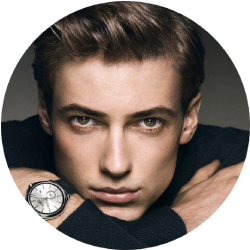
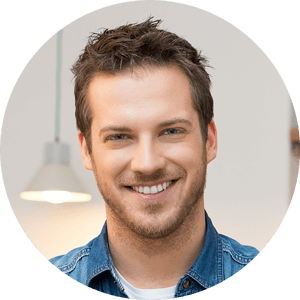
teams_klar!

diff --git a/CODE/team.html b/CODE/team.html
@@ -43,58 +43,58 @@
       <div class="our_team">
         <div class="team_member">
           <div class="member_img">
-            <img src="images/teams/member_4.png" alt="our_team">
+            <img src="images/teams/member_1.png" alt="our_team">
             <div class="social_media">
-              <div class="facebook item"><img id="link-icon" src="images/F.png" alt="" onclick="location.href='https://www.instagram.com/'"></div>
-              <div class="twitter item"><i class="fab fa-twitter"></i></div>
-              <div class="instagram item"><i class="fab fa-instagram"></i></div>
+              <div class="facebook item"><img id="link-icon" src="images/teams/facebook.png" alt="" onclick="location.href='https://www.facebook.com/'"></div>
+              <div class="twitter item"><img id="link-icon" src="images/teams/twitter.png" alt="" onclick="location.href='https://twitter.com/'"></div>
+              <div class="instagram item"><img id="link-icon" src="images/teams/insta.png" alt="" onclick="location.href='https://www.instagram.com/'"></div>
             </div>
           </div>
           <h3>Dawit Weldon</h3>
           <span class="roll">CEO</span>
-          <p>Lorem ipsum dolor sit amet, consectetur adipisicing elit. Ratione perspiciatis, error deleniti quaerat beatae doloribus incidunt excepturi. Fugit deleniti accusantium neque hic quidem voluptatibus cumque.</p>
+          <p>Lorem ipsum dolor sit amet, consectetur adipisicing elit. Ratione perspiciatis, error deleniti quaerat beatae doloribus incidunt excepturi. Fugit deleniti accusantium neque hic quidem voluptatibus cumque. &nbsp</p>
           <a class="more_info" href="AboutMePage.html">Läs mer om Dawit</a>
         </div>
         <div class="team_member">
           <div class="member_img">
-            <img src="images/teams/member_4.png" alt="our_team">
+            <img src="images/teams/member_3.png" alt="our_team">
             <div class="social_media">
-              <div class="facebook item"><i class="fab fa-facebook-f"></i></div>
-              <div class="twitter item"><i class="fab fa-twitter"></i></div>
-              <div class="instagram item"><i class="fab fa-instagram"></i></div>
+              <div class="facebook item"><img id="link-icon" src="images/teams/facebook.png" alt="" onclick="location.href='https://www.facebook.com/'"></div>
+              <div class="twitter item"><img id="link-icon" src="images/teams/twitter.png" alt="" onclick="location.href='https://twitter.com/'"></div>
+              <div class="instagram item"><img id="link-icon" src="images/teams/insta.png" alt="" onclick="location.href='https://www.instagram.com/'"></div>
             </div>
           </div>
           <h3>Ali Sajjad Mohammadi</h3>
           <span class="roll">Accountant</span>
-          <p>Lorem ipsum dolor sit amet, consectetur adipisicing elit. Dolores maiores temporibus, architecto optio asperiores mollitia pariatur error, quaerat voluptatibus minima eos quo nostrum, maxime necessitatibus.</p>
+          <p>Lorem ipsum dolor sit amet, consectetur adipisicing elit. Dolores maiores temporibus, architecto optio asperiores mollitia pariatur error, quaerat voluptatibus minima eos quo nostrum, maxime necessitatibus. &nbsp</p>
           <a class="more_info" href="">Läs mer om Ali</a>
         </div>
         <div class="team_member">
           <div class="member_img">
             <img src="images/teams/member_4.png" alt="our_team">
             <div class="social_media">
-              <div class="facebook item"><i class="fab fa-facebook-f"></i></div>
-              <div class="twitter item"><i class="fab fa-twitter"></i></div>
-              <div class="instagram item"><i class="fab fa-instagram"></i></div>
+              <div class="facebook item"><img id="link-icon" src="images/teams/facebook.png" alt="" onclick="location.href='https://www.facebook.com/'"></div>
+              <div class="twitter item"><img id="link-icon" src="images/teams/twitter.png" alt="" onclick="location.href='https://twitter.com/'"></div>
+              <div class="instagram item"><img id="link-icon" src="images/teams/insta.png" alt="" onclick="location.href='https://www.instagram.com/'"></div>
             </div>
           </div>
           <h3>Firas Raad</h3>
           <span class="roll">Product Manager</span>
-          <p>Lorem ipsum dolor sit amet, consectetur adipisicing elit. Ratione perspiciatis, error deleniti quaerat beatae doloribus incidunt excepturi. Fugit deleniti accusantium neque hic quidem voluptatibus cumque.</p>
+          <p>Lorem ipsum dolor sit amet, consectetur adipisicing elit. Ratione perspiciatis, error deleniti quaerat beatae doloribus incidunt excepturi. Fugit deleniti accusantium neque hic quidem voluptatibus cumque. &nbsp</p>
           <a class="more_info" href="">Läs mer om Firas</a>
         </div>
         <div class="team_member">
           <div class="member_img">
-            <img src="images/teams/member_4.png" alt="our_team">
+            <img src="images/teams/member_2.png" alt="our_team">
             <div class="social_media">
-              <div class="facebook item"><i class="fab fa-facebook-f"></i></div>
-              <div class="twitter item"><i class="fab fa-twitter"></i></div>
-              <div class="instagram item"><i class="fab fa-instagram"></i></div>
+              <div class="facebook item"><img id="link-icon" src="images/teams/facebook.png" alt="" onclick="location.href='https://www.facebook.com/'"></div>
+              <div class="twitter item"><img id="link-icon" src="images/teams/twitter.png" alt="" onclick="location.href='https://twitter.com/'"></div>
+              <div class="instagram item"><img id="link-icon" src="images/teams/insta.png" alt="" onclick="location.href='https://www.instagram.com/'"></div>
             </div>
           </div>
           <h3>Masih Sediqi</h3>
           <span class="roll">product analyst</span>
-          <p>Lorem ipsum dolor sit amet, consectetur adipisicing elit. Ratione perspiciatis, error deleniti quaerat beatae doloribus incidunt excepturi. Fugit deleniti accusantium neque hic quidem voluptatibus cumque.</p>
+          <p>Lorem ipsum dolor sit amet, consectetur adipisicing elit. Ratione perspiciatis, error deleniti quaerat beatae doloribus incidunt excepturi. Fugit deleniti accusantium neque hic quidem voluptatibus cumque. &nbsp</p>
             <a class="more_info" href="">Läs mer om Masih</a>
         </div>
       </div>

diff --git a/CODE/team.css b/CODE/team.css
@@ -98,7 +98,8 @@
 }
 
 #link-icon{
-    width: 20px;
+    width: 30px;
+    border-radius: 80%;
 }
 .more_info{
     text-decoration: none;
